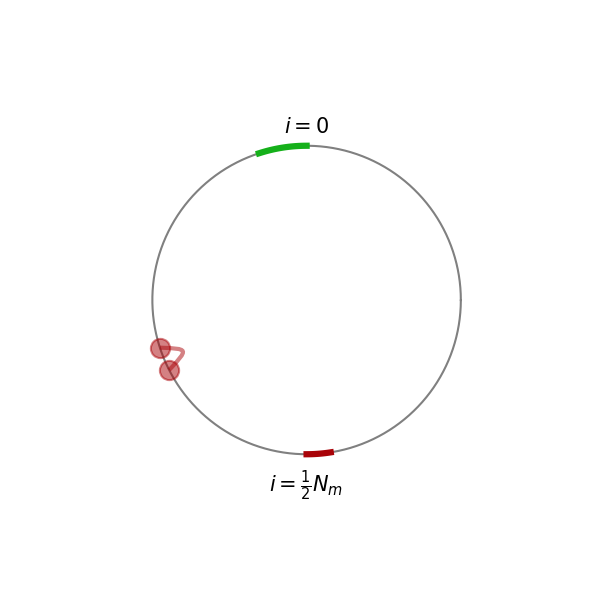
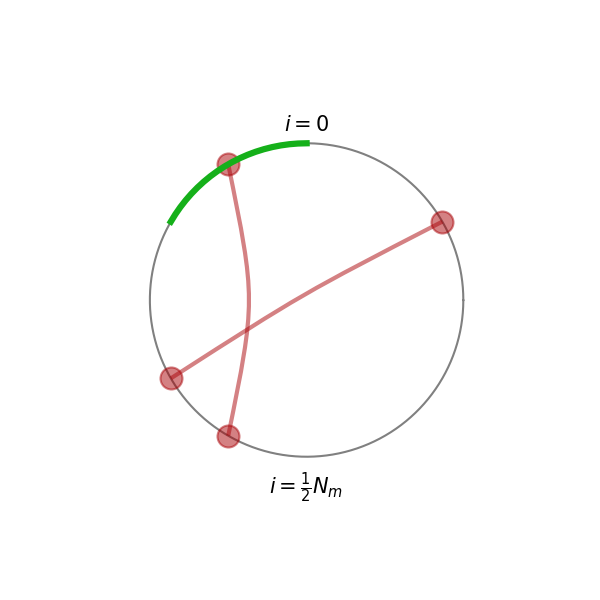
small changes to example figure and removed superfluous reference to hdf5

diff --git a/ProteinChordDiagram.py b/ProteinChordDiagram.py
@@ -10,7 +10,6 @@ class ProteinChordDiagram:
     """
     def __init__(self, sites, polymer_length, radius = 1, max_radius=0.9, color_scheme='dark', size=600):
         self.color_scheme = color_scheme
-        self.attrs = group.attrs
         self.L = polymer_length
         self.radius = radius
         self.max_radius = max_radius
@@ -176,7 +175,7 @@ class ProteinChordDiagram:
         thermal_variance = ter_size
         if thermal_variance < (self.L / 2) ** 2:  # if this condition does not hold, there's aspecific binding, and it would be senseless to draw an origin
             delta = int(np.sqrt(thermal_variance))
-            begin, end = int(self.L/2-delta), int(self.L/2+delta+1)
+            begin, end = int(self.L/2-delta), int(self.L/2+delta)
             angles = np.linspace(begin, end, num=interpolation_ratio*(end-begin))
             plt.plot(self.compute_angles(angles), len(angles)*[radius], c=self.color_ter, alpha=alpha, lw=3, zorder=100)
 
@@ -240,13 +239,10 @@ class ProteinChordDiagram:
             plt.savefig(output_file, edgecolor='none', dpi=self.dpi, transparent=True)
 
 if __name__ == '__main__':
-    import h5py
     file_name = '/Users/C.Miermans/projects/chromosome/python_packages/chromosome_visualization/test_data/raw_data.h5'
-    File = h5py.File(file_name, mode='r')
-    group = File[list(File)[0]]
-    sites = np.array(group[f'{list(group)[-1]}/proteins'])[:, :2]
+    sites = np.array([[1,5], [4, 10]])
 
-    X = ProteinChordDiagram(sites, group.attrs['n_monomers'][0], color_scheme='light')
+    X = ProteinChordDiagram(sites, 12, color_scheme='light')
     # X.draw_vertices(list(group)[0])
     X.draw_all(add_text=True, alpha=0.5)
 
